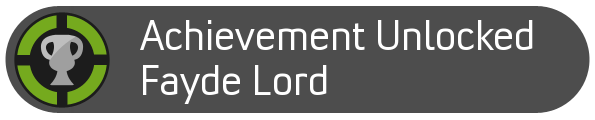
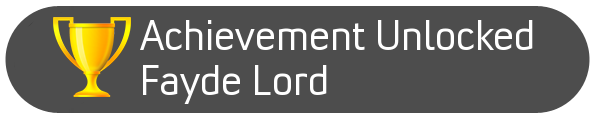
Added images and edited trophy images

Changed region(s): [[0.0, 0.1, 0.242, 0.9]]

diff --git a/index.html b/index.html
@@ -161,16 +161,16 @@
         	<tr>
 				<!-- Complete one level -->
         		<td class="def"><h2>Fayde Lord</h2><p>complete the level after the grid has faded</p></td>
-        		<td><img src="images/Trophy_bnw.png" class="trophy" alt="levelupIMG" id="levelupIMG" width="100px" height="100px"></td>
+        		<td><img src="images/Trophy_bnw.png" class="faydelord" alt="faydelordIMG" id="faydelord" width="100px" height="100px"></td>
         	</tr>
         	<tr>
 				<!-- Get a score of ZERO -->
         		<td class="def"><h2>2 Fast 2 Furious</h2><p>reach level 3</p></td>
-        		<td><img src="images/Trophy_bnw.png" class="trophy" alt="reallyIMG" id="reallyIMG" width="100px" height="100px"></td>
+        		<td><img src="images/Trophy_bnw.png" class="trophy" alt="2fastIMG" id="2fast" width="100px" height="100px"></td>
         	</tr>
         	<tr>
         		<td class="def"><h2>20,000 Points Club</h2><p>reach a score of 20,000 with 3 lives remaining</p></td>
-        		<td><img src="images/Trophy_bnw.png" class="trophy" alt="levelupIMG" id="levelupIMG" width="100px" height="100px"></td>
+        		<td><img src="images/Trophy_bnw.png" class="trophy" alt="2kpointsIMG" id="2kpoints" width="100px" height="100px"></td>
         	</tr>
 		</table>
 		<a data-role="button" data-inline="false" class="menu">Main Menu</a>

diff --git a/js/shades.js b/js/shades.js
@@ -508,7 +508,7 @@ $(document).ready(function() {
 			$("#ac").show().slideDown("slow", function() {
 				$("#ach1").fadeOut(5000, function() {$("img#ach1").remove();});
 			});
-			
+			$(".faydelord").html("<img src='images/Trophy_bnw.png' class='faydelord' alt='faydelordIMG' id='faydelord' width='100px' height='100px'>");
 		}
 
 		if (time >= fadeTime && !achiev2) {
@@ -547,6 +547,9 @@ $(document).ready(function() {
 	$(".submit").click(function(){
 		window.location = "#sumbitPage";
 	});	
-
+	
+	$(".faydelord").click(function(){
+		$(".faydelord").html("<img src='images/Trophy_color.png' class='faydelord' alt='faydelordIMG' id='faydelord' width='100px' height='100px'>");
+	});
 });
 
